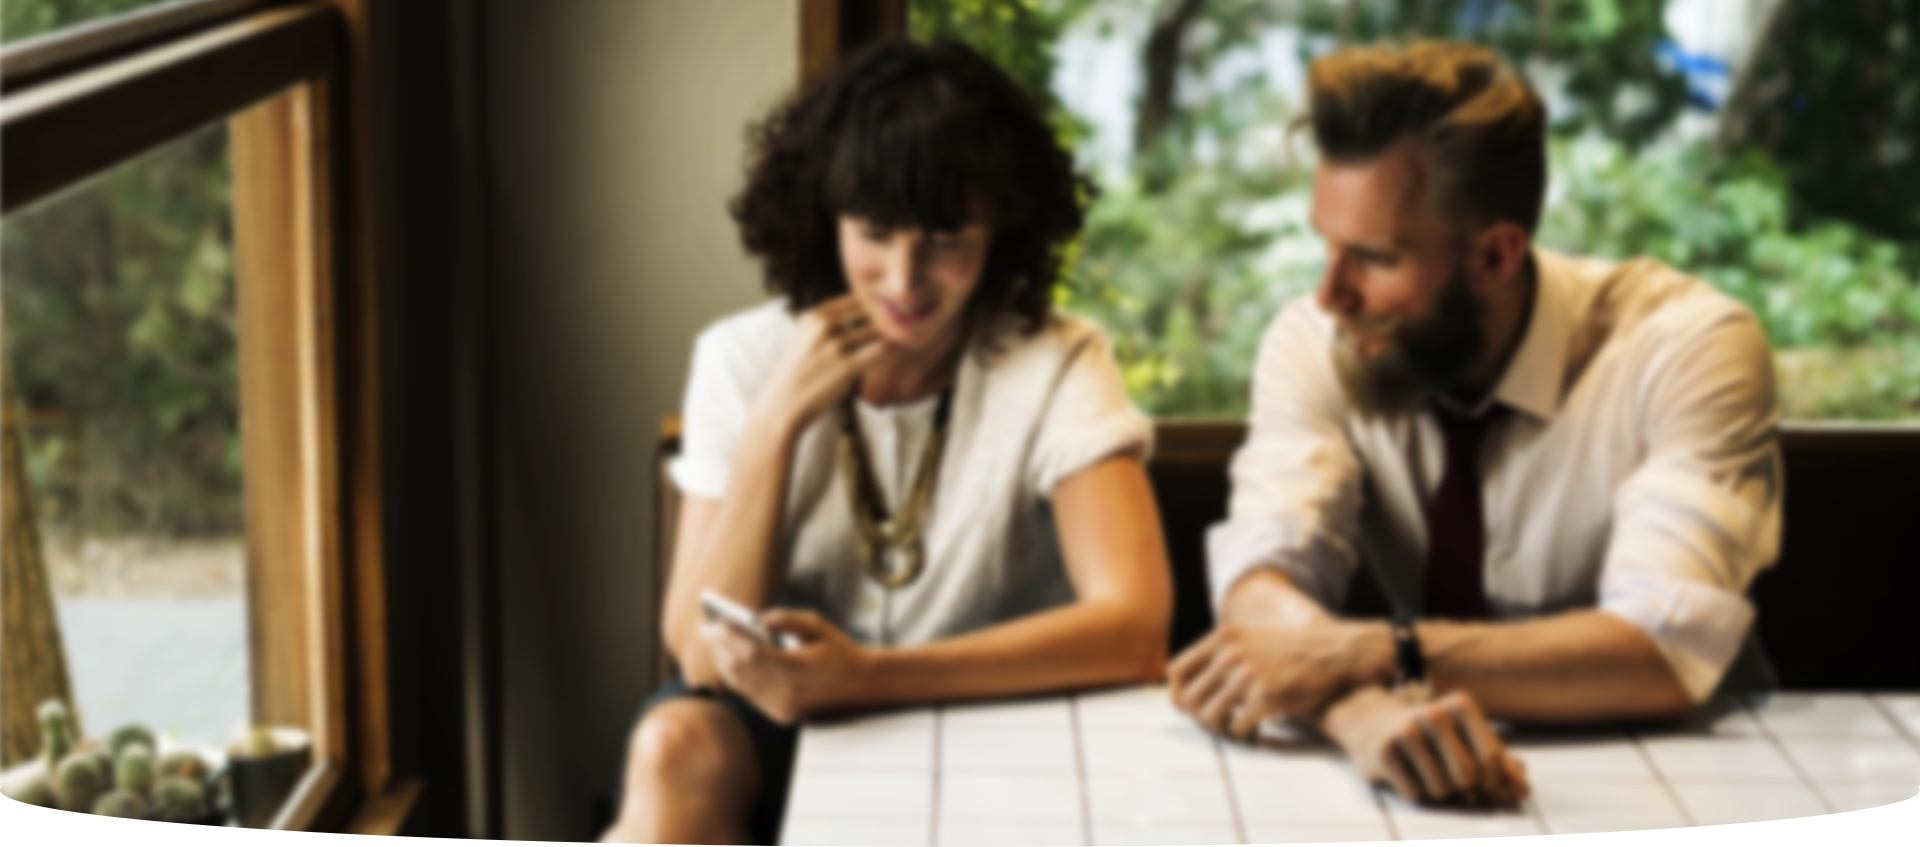
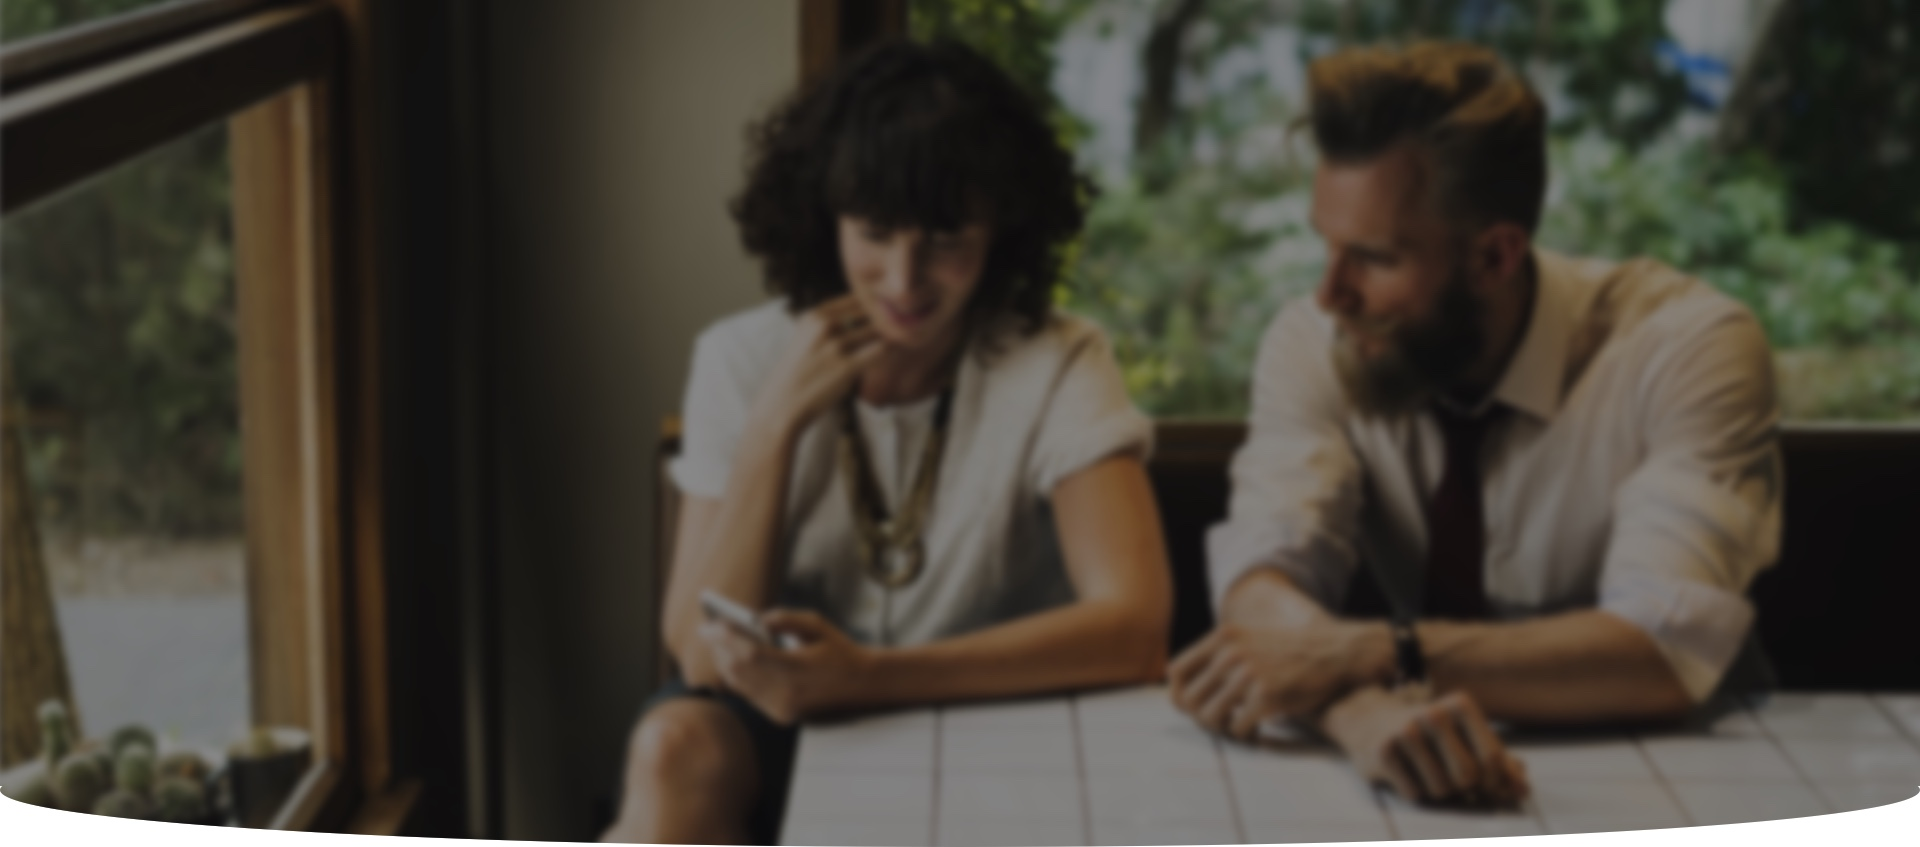
update xpixel

diff --git a/xPider/index.html b/xPider/index.html
@@ -23,11 +23,6 @@
 
 <body>
     <div class="wrapper">
-        <div class="background-image">
-            <img src="images/background.jpg">
-            <div class="background-cover1"></div>
-            <div class="background-cover2"></div>
-        </div>
         <header>
             <a href="#" class="brand">
                 <img src="images/logo.png" alt="">
@@ -44,22 +39,25 @@
             </nav>
         </header>
         <section class="hero">
-            <div class="slogan">Oraganize your remote<br />team with xPider. Move fast.</div>
-            <div class="explaination">When you need a kickstart in your business and you have no time for coding
-                for<br />your website, xPider will take that job for you and will build a great looking website<br />in
-                minutes.</div>
-            <div class="actions">
-                <button class="get-started">GET STARTED, IT'S FREE</button>
-                <button class="watch-video">
-                    <i class="far fa-play-circle"></i>
-                    <span>Watch our video</span>
-                </button>
+            <img src="images/background.jpg">
+            <div class="hero-content">
+                <div class="slogan">Oraganize your remote team with xPider. Move fast.</div>
+                <div class="explaination">When you need a kickstart in your business and you have no time for coding
+                    for your website, xPider will take that job for you and will build a great looking website in
+                    minutes.</div>
+                <div class="actions">
+                    <button class="get-started">GET STARTED, IT'S FREE</button>
+                    <button class="watch-video">
+                        <i class="far fa-play-circle"></i>
+                        <span>Watch our video</span>
+                    </button>
+                </div>
             </div>
         </section>
         <section class="why">
             <div class="question">
                 <div>Why choose xPider?</div>
-                <div>A simple, proven way to boost your<br />team performance.</div>
+                <div>A simple, proven way to boost your team performance.</div>
             </div>
             <div class="answers">
                 <div class="answer">
@@ -263,37 +261,41 @@
             </div>
         </section>
         <footer>
-            <img class="footer-logo" src="images/logo.png">
-            <div class="footer-links">
-                <div class="links-list">
-                    <div>Company</div>
-                    <ul>
-                        <li><a href="#">About Us</a></li>
-                        <li><a href="#">Careers</a></li>
-                        <li><a href="#">Blog</a></li>
-                        <li><a href="#">Press</a></li>
-                        <li><a href="#">Brand Guidelines</a></li>
-                    </ul>
-                </div>
-                <div class="links-list">
-                    <div>Product</div>
-                    <ul>
-                        <li><a href="#">Why xPider?</a></li>
-                        <li><a href="#">Enterprise</a></li>
-                        <li><a href="#">Customer Stories</a></li>
-                        <li><a href="#">Pricing</a></li>
-                        <li><a href="#">Security</a></li>
-                    </ul>
-                </div>
-                <div class="links-list">
-                    <div>Resources</div>
-                    <ul>
-                        <li><a href="#">Download</a></li>
-                        <li><a href="#">Help Center</a></li>
-                        <li><a href="#">Guides</a></li>
-                        <li><a href="#">Partners</a></li>
-                        <li><a href="#">Events</a></li>
-                    </ul>
+            <div class="fake-links-wrapper">
+                <div class="links-wrapper">
+                    <img class="footer-logo" src="images/logo.png">
+                    <div class="footer-links">
+                        <div class="links-list">
+                            <div>Company</div>
+                            <ul>
+                                <li><a href="#">About Us</a></li>
+                                <li><a href="#">Careers</a></li>
+                                <li><a href="#">Blog</a></li>
+                                <li><a href="#">Press</a></li>
+                                <li><a href="#">Brand Guidelines</a></li>
+                            </ul>
+                        </div>
+                        <div class="links-list">
+                            <div>Product</div>
+                            <ul>
+                                <li><a href="#">Why xPider?</a></li>
+                                <li><a href="#">Enterprise</a></li>
+                                <li><a href="#">Customer Stories</a></li>
+                                <li><a href="#">Pricing</a></li>
+                                <li><a href="#">Security</a></li>
+                            </ul>
+                        </div>
+                        <div class="links-list">
+                            <div>Resources</div>
+                            <ul>
+                                <li><a href="#">Download</a></li>
+                                <li><a href="#">Help Center</a></li>
+                                <li><a href="#">Guides</a></li>
+                                <li><a href="#">Partners</a></li>
+                                <li><a href="#">Events</a></li>
+                            </ul>
+                        </div>
+                    </div>
                 </div>
             </div>
             <div class="bottom-wrapper">

diff --git a/xPider/css/hero.css b/xPider/css/hero.css
@@ -1,27 +1,32 @@
 .hero{
+    position: relative;
+}
+.hero > img{
+    width: 100%;
+}
+.hero-content{
+    width: 686px;
     position: absolute;
-    top: 333px;
+    top: 50%;
     left: 50%;
-    transform: translateX(-50%);
-    z-index: 100;
+    transform: translate(-50%, -50%);
+    z-index: 100; 
     display: flex;
     flex-direction: column;
-    align-items: center;    
+    align-items: center;   
 }
-.hero > div{
+.hero-content > div{
     padding: 15px 0;
 }
 .slogan{
     font-size: 48px;
     color: #FFFFFF;
-    letter-spacing: 0;
     text-align: center;
     line-height: 62px;
 }
 .explaination{
     font-size: 18px;
     color: #D2D2D2;
-    letter-spacing: 0;
     text-align: center;
     line-height: 34px;
 }
@@ -34,7 +39,6 @@
 .watch-video{
     font-size: 18px;
     color: #FFFFFF;
-    letter-spacing: 0;
     border: none;
     background-color: transparent;
     display: flex;

diff --git a/xPider/css/style.css b/xPider/css/style.css
@@ -13,34 +13,10 @@ button:hover, a:hover{
     cursor: pointer;
 }
 .wrapper{
-    width: 1920px;
-    position: relative;
+    max-width: 1920px;
+    min-width: 1200px;
     overflow: hidden;
 }
-.background-cover1{
-    width: 1920px;
-    height: 790px;
-    position: absolute;
-    top:0;
-    left:0; 
-    z-index: 10;
-    opacity: 0.5;
-    background-color: #151619;
-}
-.background-cover2{
-    width: 1920px;
-    height: 57px;
-    position: absolute;
-    top:790px;
-    left:0; 
-    border-radius: 50% / 100%;
-    border-top-left-radius: 0;
-    border-top-right-radius: 0;
-    z-index: 10;
-    opacity: 0.5;
-    background-color: #151619;
-}
-
 .get-started{
     text-align: center;
     background: #2F5BEA;

diff --git a/xPider/css/footer.css b/xPider/css/footer.css
@@ -2,15 +2,18 @@ footer{
     height: 543px;
     position: relative;
 }
-.footer-logo{
-    position: absolute;
-    top: 127px;
-    left: 404px;
+.fake-links-wrapper{
+    width: 1111px;
+    margin: auto;
+    margin-top:127px;
+}
+.links-wrapper{
+    width: 971px;
+    display: flex;
+    align-items: start;
+    justify-content: space-between;
 }
 .footer-links{
-    position: absolute;
-    top: 127px;
-    left: 784px;
     display: flex;
     align-items: stretch;
     justify-content: space-between;

diff --git a/xPider/css/feature.css b/xPider/css/feature.css
@@ -8,7 +8,8 @@
 .path {
     position: absolute;
     bottom: 0;
-    left: 297px;
+    left: 50%;
+    transform: translateX(-50%);
 }
 .feature{
     display: flex;

diff --git a/xPider/css/cta1.css b/xPider/css/cta1.css
@@ -93,6 +93,7 @@
 .mobile{
     position: absolute;
     top: 120px;
-    left: 776px;
+    left: 50%;
+    transform: translateX(-50%);
     z-index: 100;
 }
